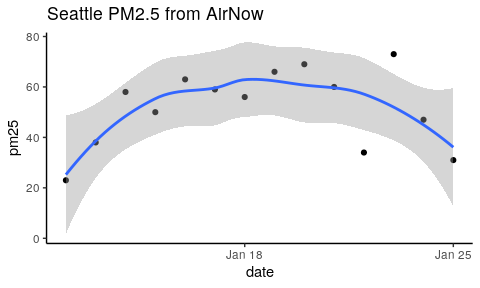
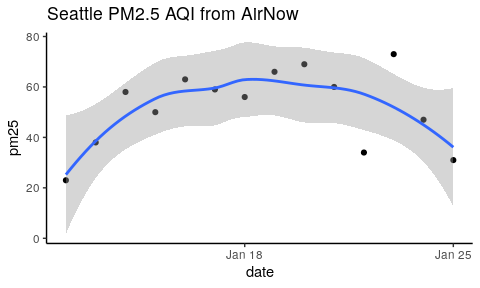
Noted that Airnow data is PM2.5 AQI.

Changed region(s): [[0.3438, 0.0, 0.625, 0.0938]]

diff --git a/demos/data_import/epa_aqi/getAQI.md b/demos/data_import/epa_aqi/getAQI.md
@@ -64,7 +64,7 @@ We are loading:
 * `rvest` -- `read_html()`, `html_node()`, `html_attr()` -- for web-scraping
 * `styler` -- `style_text()` -- to format R code for better display
 
-## Airnow air quality data
+## Airnow Air Quality Index (AQI) data
 
 We will get historical air quality data from this page: 
 
@@ -167,7 +167,7 @@ df <- do.call("rbind", lapply(dates, function(my_date) {
 This is a base-R approach. We could do this with the `tidyverse` 
 function `map()` instead of `lapply()` and `bind_rows()` instead of `rbind()`.
 
-## Plot Airnow PM2.5 data for Seattle
+## Plot Airnow PM2.5 AQI data for Seattle
 
 We obtained data for several sites in Washington. We can subset the results for
 Seattle and view them as a scatter plot.
@@ -175,7 +175,7 @@ Seattle and view them as a scatter plot.
 
 ```r
 plot_df <- df[grepl("Seattle", df$reportingArea), ]
-plot_title <- "Seattle PM2.5 from AirNow"
+plot_title <- "Seattle PM2.5 AQI from AirNow"
 ggplot(plot_df, aes(date, pm25)) + geom_point() +  ggtitle(plot_title) + 
   geom_smooth(formula = "y ~ x", method = "loess") + theme_classic()
 ```
